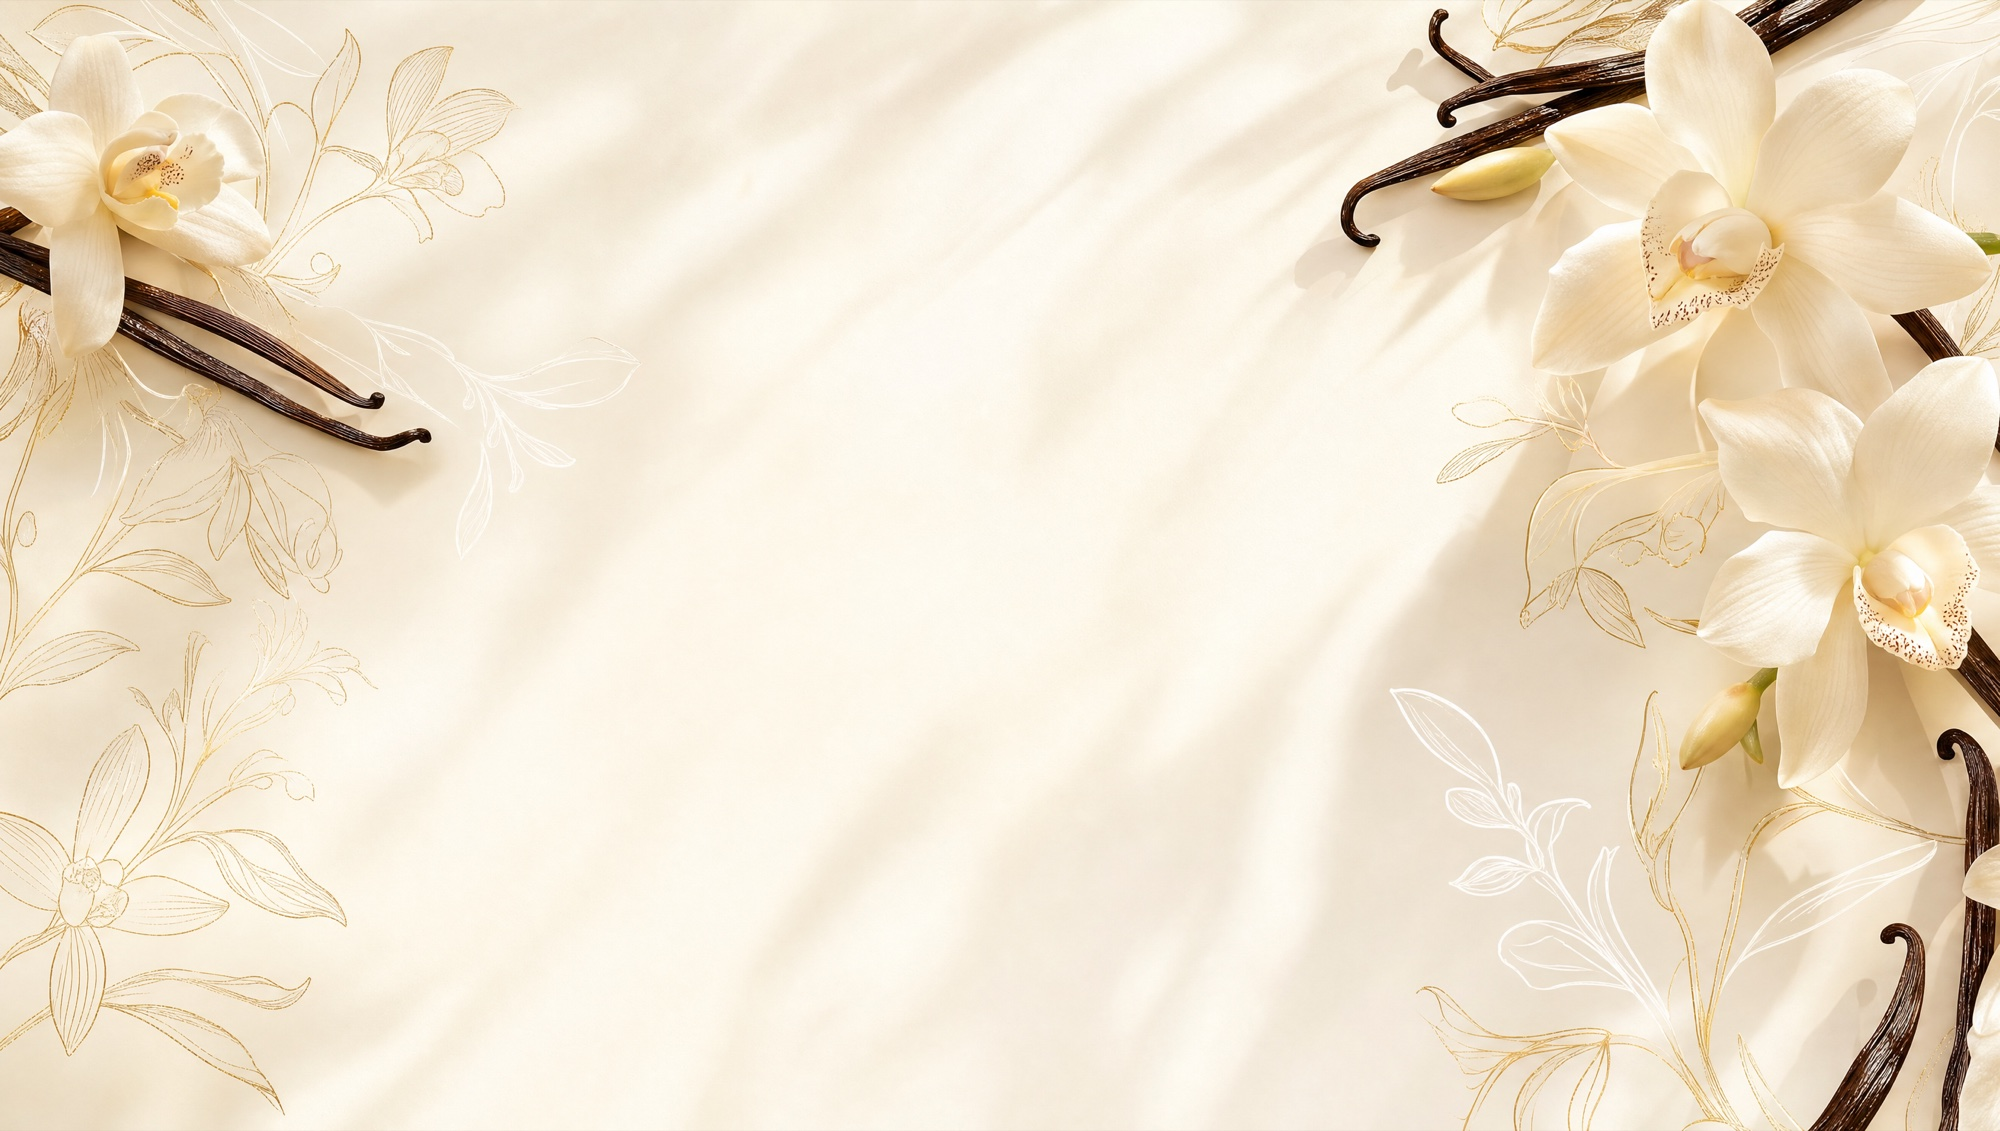
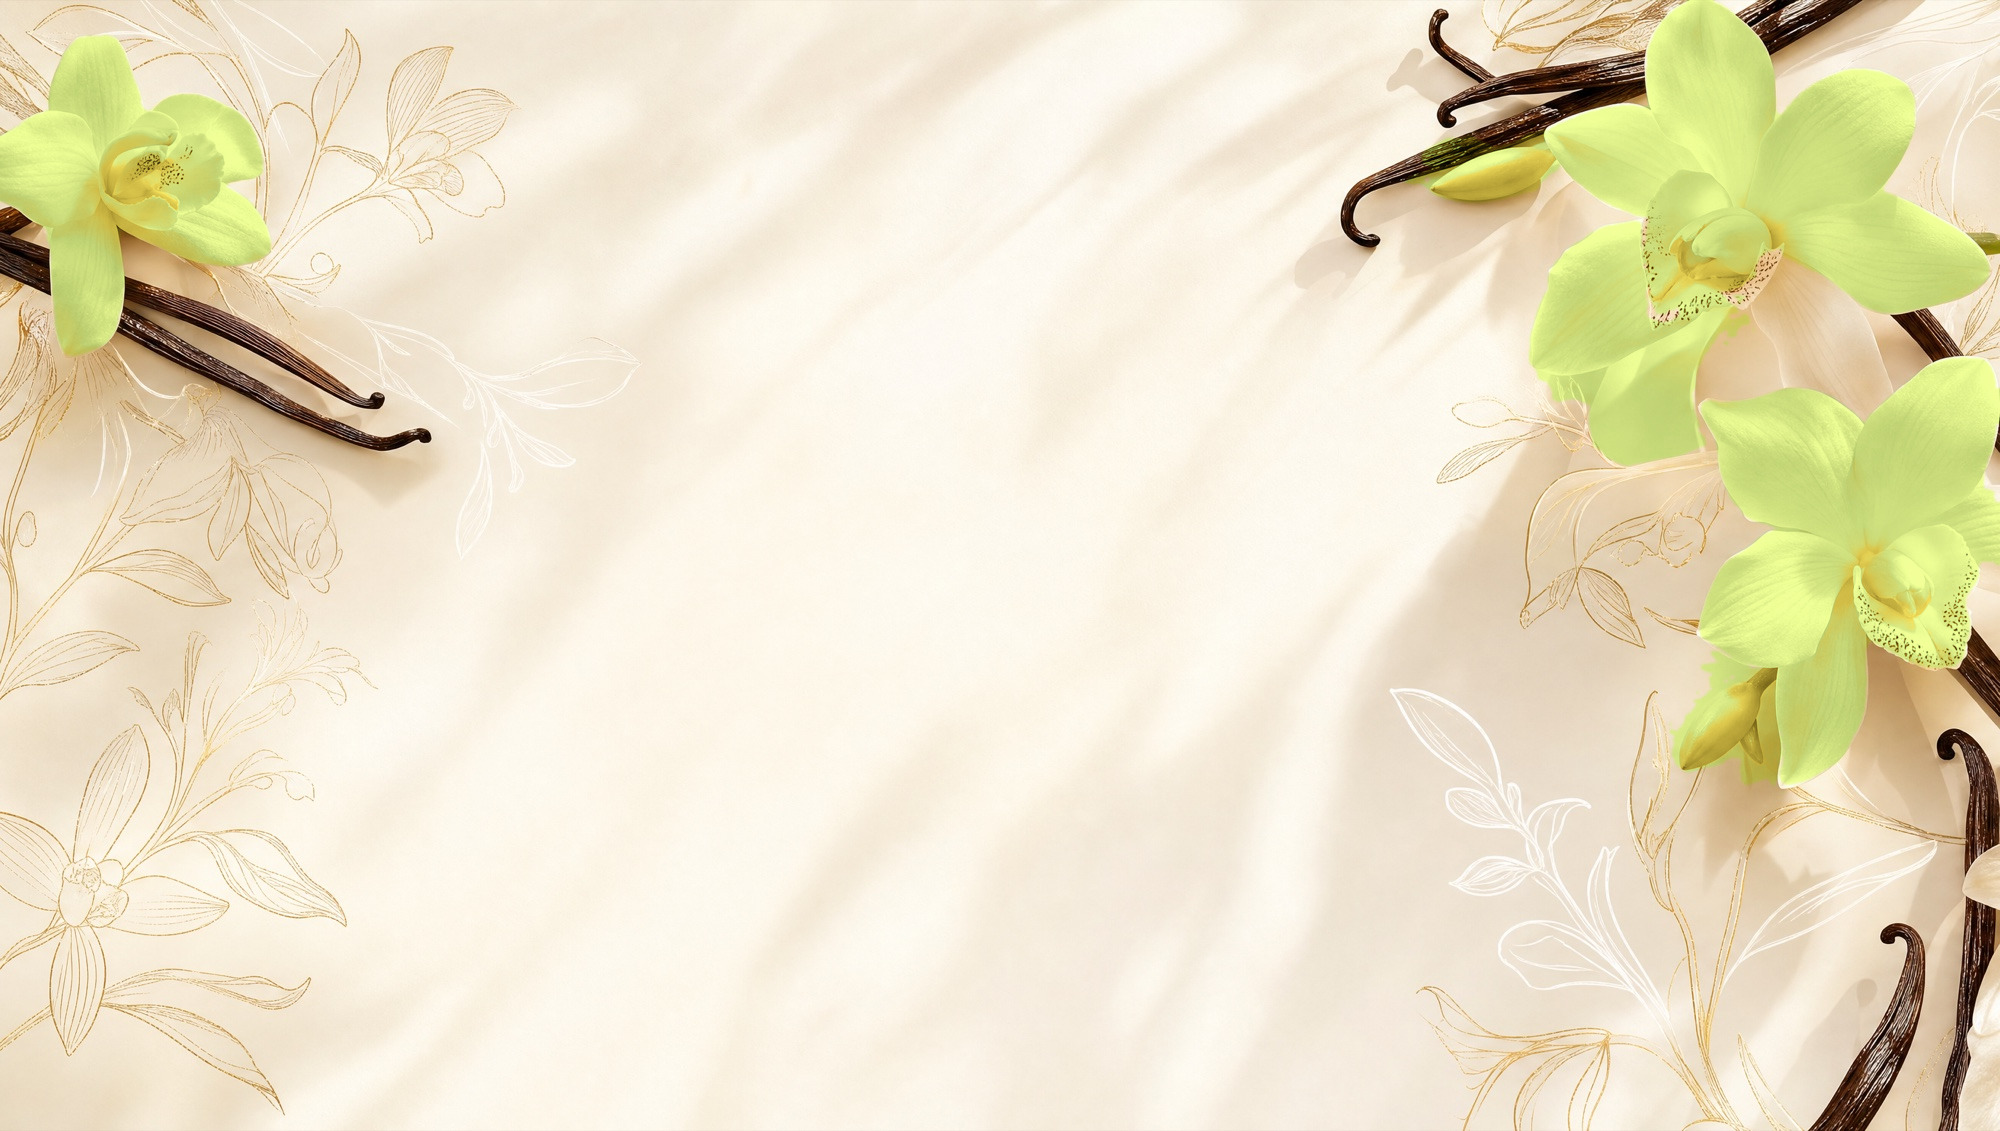
Produktkarten kompakt, Kopfbild goldener, Vanillebblueten gruenlich, Newsletter Stephan links
- Karten: Symbole weg, Button+Lieferstatus unten buendig, weniger Hoehe
- header-stephan-v7: Wand goldbraun, Haut geschuetzt
- Blueten in 9 Fotos gruen-gelb (Masken pro Bluete, Etiketten unberuehrt)
- Newsletter: Stephan gross links, Text rechts vertikal mittig

Changed region(s): [[0.713, 0.0, 1.0, 0.7118], [0.0, 0.0309, 0.155, 0.3095]]

diff --git a/index.html b/index.html
@@ -560,7 +560,7 @@ footer ul a{color:rgba(255,255,255,.72);font-size:.92rem;transition:color .2s}fo
 .cat-vid{position:absolute;inset:0;width:100%;height:100%;object-fit:cover;object-position:52% 50%;opacity:0;transition:opacity .45s ease;pointer-events:none}
 .cat:hover .cat-vid{opacity:1}
 </style>
-<link rel="stylesheet" href="dark.css?v=6">
+<link rel="stylesheet" href="dark.css?v=7">
 <meta name="robots" content="noindex,nofollow">
 <meta name="theme-color" content="#0A0907">
 </head>
@@ -607,7 +607,7 @@ footer ul a{color:rgba(255,255,255,.72);font-size:.92rem;transition:color .2s}fo
 <section class="hero">
   <div class="wrap">
     <div class="hero-card reveal">
-      <img class="bg" id="heroImg" src="img/header-stephan-v6.jpg" alt="Stephan Stemminger mit Vanilleschoten in der Manufaktur">
+      <img class="bg" id="heroImg" src="img/header-stephan-v7.jpg" alt="Stephan Stemminger mit Vanilleschoten in der Manufaktur">
       <div class="vrail">
         <a href="#" aria-label="Facebook"><svg viewBox="0 0 24 24"><path d="M14 9h3V6h-3c-2 0-3 1-3 3v2H8v3h3v7h3v-7h3l1-3h-4V9c0-.6.4-1 1-1z"/></svg></a>
         <a href="#" aria-label="Instagram"><svg viewBox="0 0 24 24"><path d="M12 8.5A3.5 3.5 0 1012 15.5 3.5 3.5 0 0012 8.5zm5-1.2a.9.9 0 11-1.8 0 .9.9 0 011.8 0zM7 4h10a3 3 0 013 3v10a3 3 0 01-3 3H7a3 3 0 01-3-3V7a3 3 0 013-3z" fill="none" stroke="currentColor" stroke-width="1.6"/></svg></a>
@@ -797,7 +797,7 @@ footer ul a{color:rgba(255,255,255,.72);font-size:.92rem;transition:color .2s}fo
 <!-- NEWSLETTER -->
 <section class="sec" id="newsletter" style="padding-top:0;padding-bottom:clamp(30px,4vw,56px);scroll-margin-top:120px">
   <div class="nlx reveal">
-    <img class="nlx-bg" src="img/newsletter-stephan-v8.jpg" alt="Stephan Stemminger prüft Vanilleschoten in der Manufaktur">
+    <img class="nlx-bg" src="img/newsletter-stephan-links.jpg" alt="Stephan Stemminger prüft Vanilleschoten in der Manufaktur">
     <div class="nlx-in">
       <h2 class="serif">Rezepte, Neuheiten<br>&amp; <span class="g">exklusive Angebote</span></h2>
       <p class="nlx-sub">Erhalten Sie besondere Vanille-Rezepte, Hintergrundgeschichten und limitierte Angebote – direkt in Ihr Postfach.</p>

diff --git a/dark.css b/dark.css
@@ -228,3 +228,32 @@ main .btn-dark:hover{color:#140F05}
 }
 /* Tablet: Social + Sprache/Waehrung haben neben dem Hinweis keinen Platz mehr, Hinweis steht dann allein und mittig */
 @media(min-width:701px) and (max-width:1023px){.tb-soc,.tb-right{display:none}.tb-mid{text-align:center}}
+
+/* ---------- Produktkarten kompakter ---------- */
+.pattr{display:none}
+.pcard-body{padding:16px 20px 16px;gap:4px}
+.pnote{margin-bottom:12px}
+/* Button + Lieferstatus unten buendig, egal ob der Titel ein- oder zweizeilig ist */
+.pcard .btn{margin-top:auto}
+.pavail{margin-top:9px}
+.rcard .b{padding:14px 18px 16px}
+.pcard .btn{padding:.9em 1em;white-space:nowrap}
+@media(max-width:600px){.pcard .btn{white-space:normal;padding:.7em .5em;line-height:1.2}}
+@media(max-width:360px){.pcard .btn{font-size:.7rem;padding:.65em .25em}}
+
+/* ---------- Newsletter: Stephan links gross, Text rechts mittig ---------- */
+.nlx-pic{display:contents}
+@media(min-width:861px){
+  .nlx{height:clamp(540px,calc((100vw - 2*var(--pad-hero))/2.2),760px)}
+  .nlx-bg{object-position:0% 100%;transform:none}
+  .nlx::before{left:auto;right:0;top:0;bottom:0;width:60%;height:auto;
+    background:linear-gradient(90deg,rgba(12,9,6,0),rgba(12,9,6,.5) 40%,rgba(12,9,6,.62))}
+  .nlx-in{left:52%;right:0;top:0;bottom:0;align-items:flex-start;justify-content:center;text-align:left;
+    padding:clamp(32px,3vw,48px) clamp(28px,var(--hero-in),112px) clamp(32px,3vw,48px) clamp(12px,1.5vw,24px)}
+  .nlx h2{font-size:clamp(2rem,3.4vw,3.5rem);max-width:none}
+  .nlx-sub{max-width:44ch}
+  .nlx-form{width:100%;max-width:520px}
+}
+@media(min-width:861px) and (max-width:1200px){.nlx-in{left:47%;padding-right:clamp(24px,4vw,48px)}.nlx-form button{padding-inline:1.2em}}
+@media(max-width:860px){.nlx-bg{aspect-ratio:5/4;object-position:12% 100%;transform:none;margin-top:-24px}}
+@media(max-width:860px){.nlx-form{background:transparent;box-shadow:none}}

diff --git a/ueber-uns.html b/ueber-uns.html
@@ -710,7 +710,7 @@ footer ul a{color:rgba(255,255,255,.72);font-size:.92rem;transition:color .2s}fo
 .src{margin-top:clamp(40px,5vw,70px);font-size:.74rem;color:var(--ink-soft);opacity:.75;line-height:1.6}
 
 </style>
-<link rel="stylesheet" href="dark.css?v=6">
+<link rel="stylesheet" href="dark.css?v=7">
 <meta name="robots" content="noindex,nofollow">
 <meta name="theme-color" content="#0A0907">
 </head>
@@ -758,7 +758,7 @@ footer ul a{color:rgba(255,255,255,.72);font-size:.92rem;transition:color .2s}fo
 <section class="ab-hero">
   <div class="wrap">
     <div class="ab-card">
-      <img src="img/header-stephan-v6.jpg" alt="Stephan Stemminger mit Vanilleschoten in der Manufaktur in Schlieren">
+      <img src="img/header-stephan-v7.jpg" alt="Stephan Stemminger mit Vanilleschoten in der Manufaktur in Schlieren">
       <div class="ab-copy">
         <h1>Stephan<br>Stemminger<span class="gold-dot">.</span></h1>
         <p>Koch aus Leidenschaft, ehemaliges Teammitglied der Schweizer Kochnationalmannschaft und Gründer der ersten Vanillemanufaktur der Schweiz.</p>

diff --git a/produkt.html b/produkt.html
@@ -258,7 +258,7 @@ footer a{color:rgba(255,255,255,.72);font-size:.92rem}footer a:hover{color:#fff}
 .vthumb .play{position:absolute;left:50%;top:50%;width:30px;height:30px;margin:-15px 0 0 -15px;border-radius:50%;background:rgba(12,9,6,.62);box-shadow:0 4px 14px rgba(0,0,0,.35)}
 .vthumb .play::after{content:"";position:absolute;left:12px;top:9px;border-left:9px solid #fff;border-top:6px solid transparent;border-bottom:6px solid transparent}
 </style>
-<link rel="stylesheet" href="dark.css?v=6">
+<link rel="stylesheet" href="dark.css?v=7">
 <meta name="robots" content="noindex,nofollow">
 <meta name="theme-color" content="#0A0907">
 </head>

diff --git a/produkte.html b/produkte.html
@@ -608,7 +608,7 @@ footer ul a{color:rgba(255,255,255,.72);font-size:.92rem;transition:color .2s}fo
 @media(max-width:520px){.shopgrid .pcard-body{padding:14px 14px 16px}.shopgrid .pcard-body h3{font-size:1rem}
   .shopgrid .pnote,.shopgrid .psizes{display:none}.shopgrid .pcard-body h3{margin-bottom:12px}.shopgrid .btn{padding:.95em .4em;font-size:.76rem}}
 </style>
-<link rel="stylesheet" href="dark.css?v=6">
+<link rel="stylesheet" href="dark.css?v=7">
 <meta name="robots" content="noindex,nofollow">
 <meta name="theme-color" content="#0A0907">
 </head>

diff --git a/geschenkset.html b/geschenkset.html
@@ -255,7 +255,7 @@ footer a{color:rgba(255,255,255,.72);font-size:.92rem}footer a:hover{color:#fff}
 @media(max-width:340px){.brand img{height:32px}}
 .bundle .tag.tag-firm{font-size:.8rem;padding:4px 12px;top:-12px;letter-spacing:.02em}
 </style>
-<link rel="stylesheet" href="dark.css?v=6">
+<link rel="stylesheet" href="dark.css?v=7">
 <meta name="robots" content="noindex,nofollow">
 <meta name="theme-color" content="#0A0907">
 </head>

diff --git a/rezepte.html b/rezepte.html
@@ -678,7 +678,7 @@ dialog.rd::backdrop{background:rgba(5,4,3,.78);backdrop-filter:blur(6px)}
 html.rd-open{overflow:hidden}
 
 </style>
-<link rel="stylesheet" href="dark.css?v=6">
+<link rel="stylesheet" href="dark.css?v=7">
 <meta name="robots" content="noindex,nofollow">
 <meta name="theme-color" content="#0A0907">
 </head>
